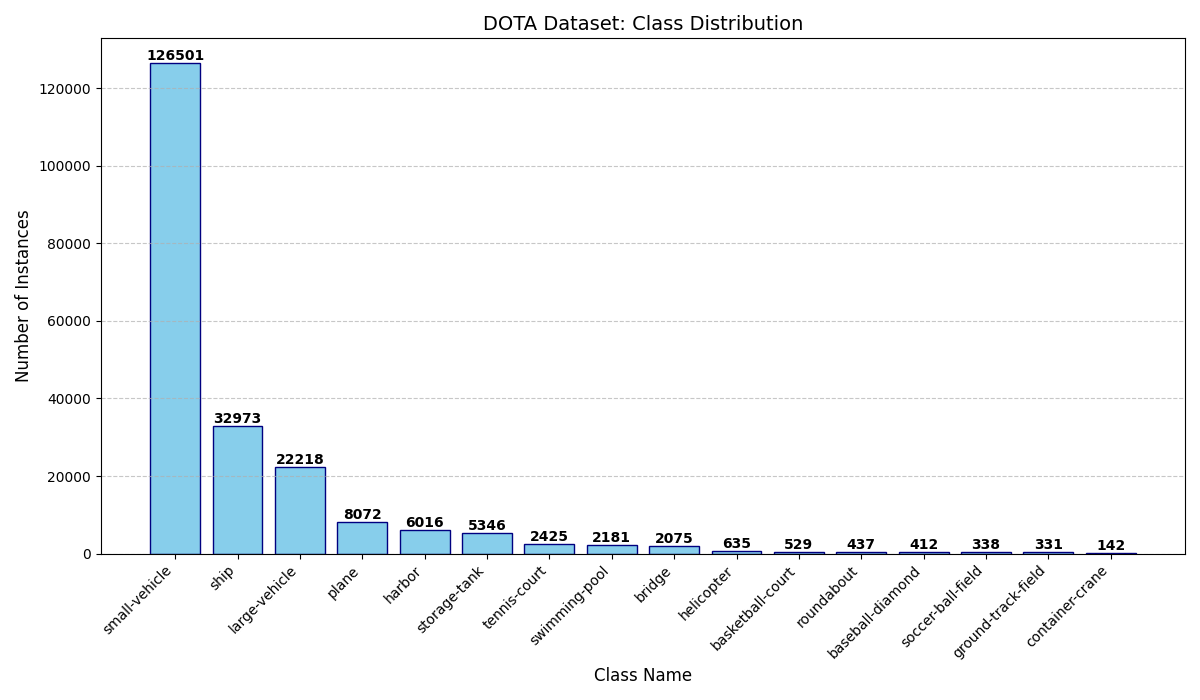
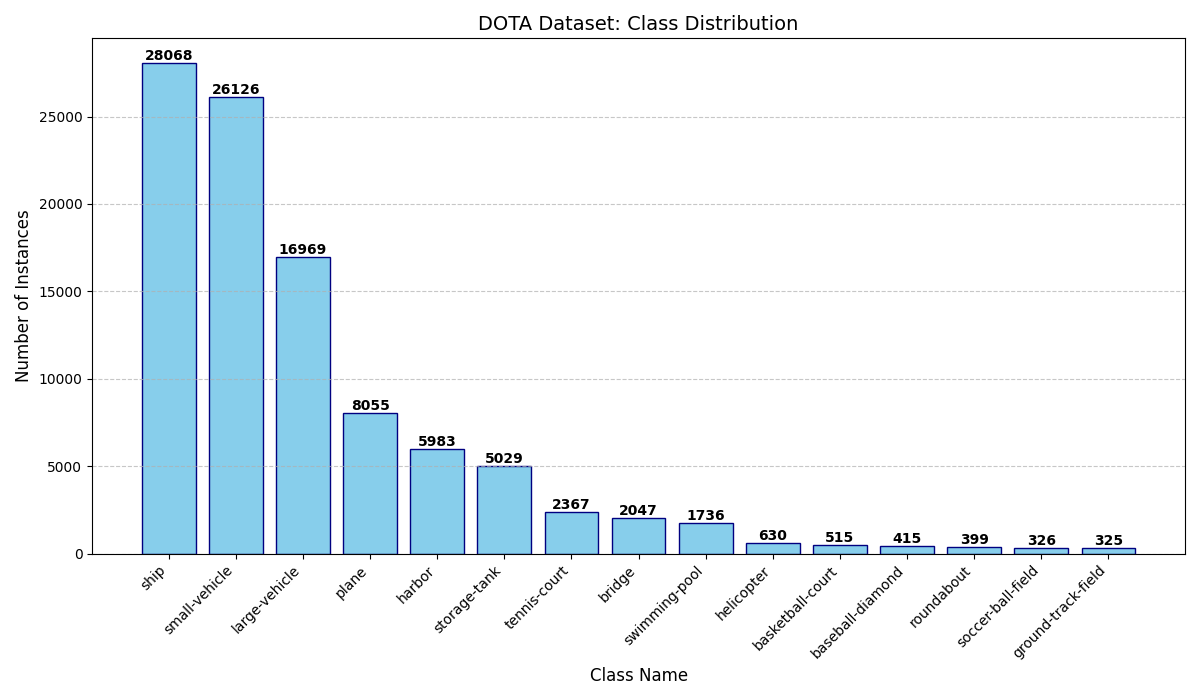
Add initial setup test results.

diff --git a/project/yolo_obb/main.py b/project/yolo_obb/main.py
@@ -1,0 +1,4 @@
+from ultralytics import YOLO
+
+model = YOLO('yolov8n-obb.yaml')
+results = model.train(data="DOTAv1.yaml", epochs=20, imgsz=1024//2)